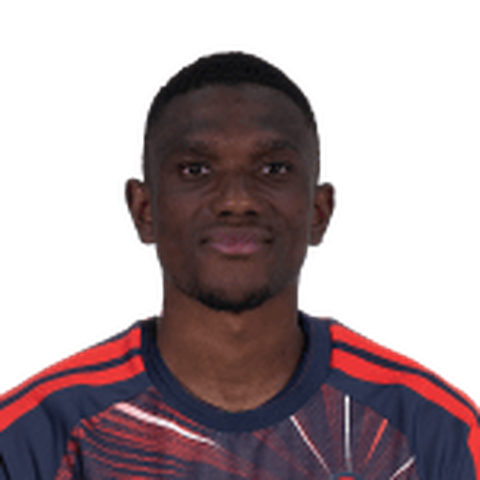
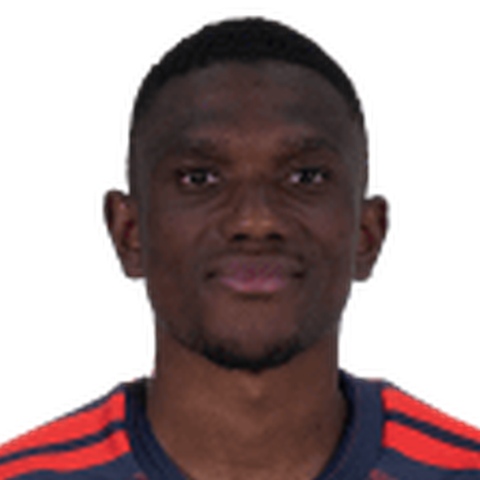
Onze type : têtes à la même taille (Camara, Dieng, Danté, Fofana, Sacko, Coulibaly, Hamari, Doumbia, Dorgeles) ; copies -onze pour ne pas toucher les autres visuels
Claude-Session: https://claude.ai/code/session_01HrXdBFJwxbhqadNHYHNDER

diff --git a/visuels/photos/SOURCES.md b/visuels/photos/SOURCES.md
@@ -26,3 +26,4 @@
 | adama-traore-malouda (id du registre) | Adama Traoré « Malouda » (milieu, né le 5 juin 1995 à Bamako) | adama-traore-malouda.png (original : adama-traore-malouda_original.png) | portrait en maillot bleu Kappa d'un club non identifié (écusson « AL… »), fichier envoyé par Diaby le 2026-10-16 ; identité confirmée par Diaby ; sa fiche officielle reste https://www.genclerbirligi.org.tr/a-takim/futbolcular/adama-traore | origine inconnue | non libre, provenance à confirmer : à remplacer si besoin par la photo de Gençlerbirliği | inconnue | recadrée sur la tête seule (sans l'écusson), fond retiré (rembg) |
 | eric-chelle (coach) | Éric Chelle | eric-chelle.png (original : eric-chelle_original.jpg) | photo de match pendant la CAN 2023 (Côte d'Ivoire), tenue d'entraînement de la FEMAFOOT, fichier envoyé par Diaby le 2026-10-16 | inconnu (probablement agence de presse) | non libre, provenance à confirmer : à retirer si demandé | 2024-01 | recadrée sur la tête (310 px → 480 px), fond retiré (rembg) |
 | tom-saintfiet (coach) | Tom Saintfiet | tom-saintfiet.png (original : tom-saintfiet_original.jpg) | photo prise lors d'un événement AFC (badge « the-AFC.com »), fichier envoyé par Diaby le 2026-10-16 ; pas en tenue du Mali | inconnu | non libre, provenance à confirmer : à remplacer par une photo avec le Mali si on en trouve une | inconnue | fond retiré (rembg sur l'image entière), recadrée sur la tête |
+| 3248-onze, kamory-doumbia-2003-onze, nene-dorgeles-2002-onze | Hamari Traoré, Kamory Doumbia, Néné Dorgeles | copies zoomées pour le onze type (post 4) | mêmes sources que 3248, kamory-doumbia-2003 et nene-dorgeles-2002 | idem | idem | idem | zoom ×1,2 à ×1,3 sur le visage pour avoir des têtes de même taille ; les fichiers d'origine restent inchangés pour les autres visuels |
